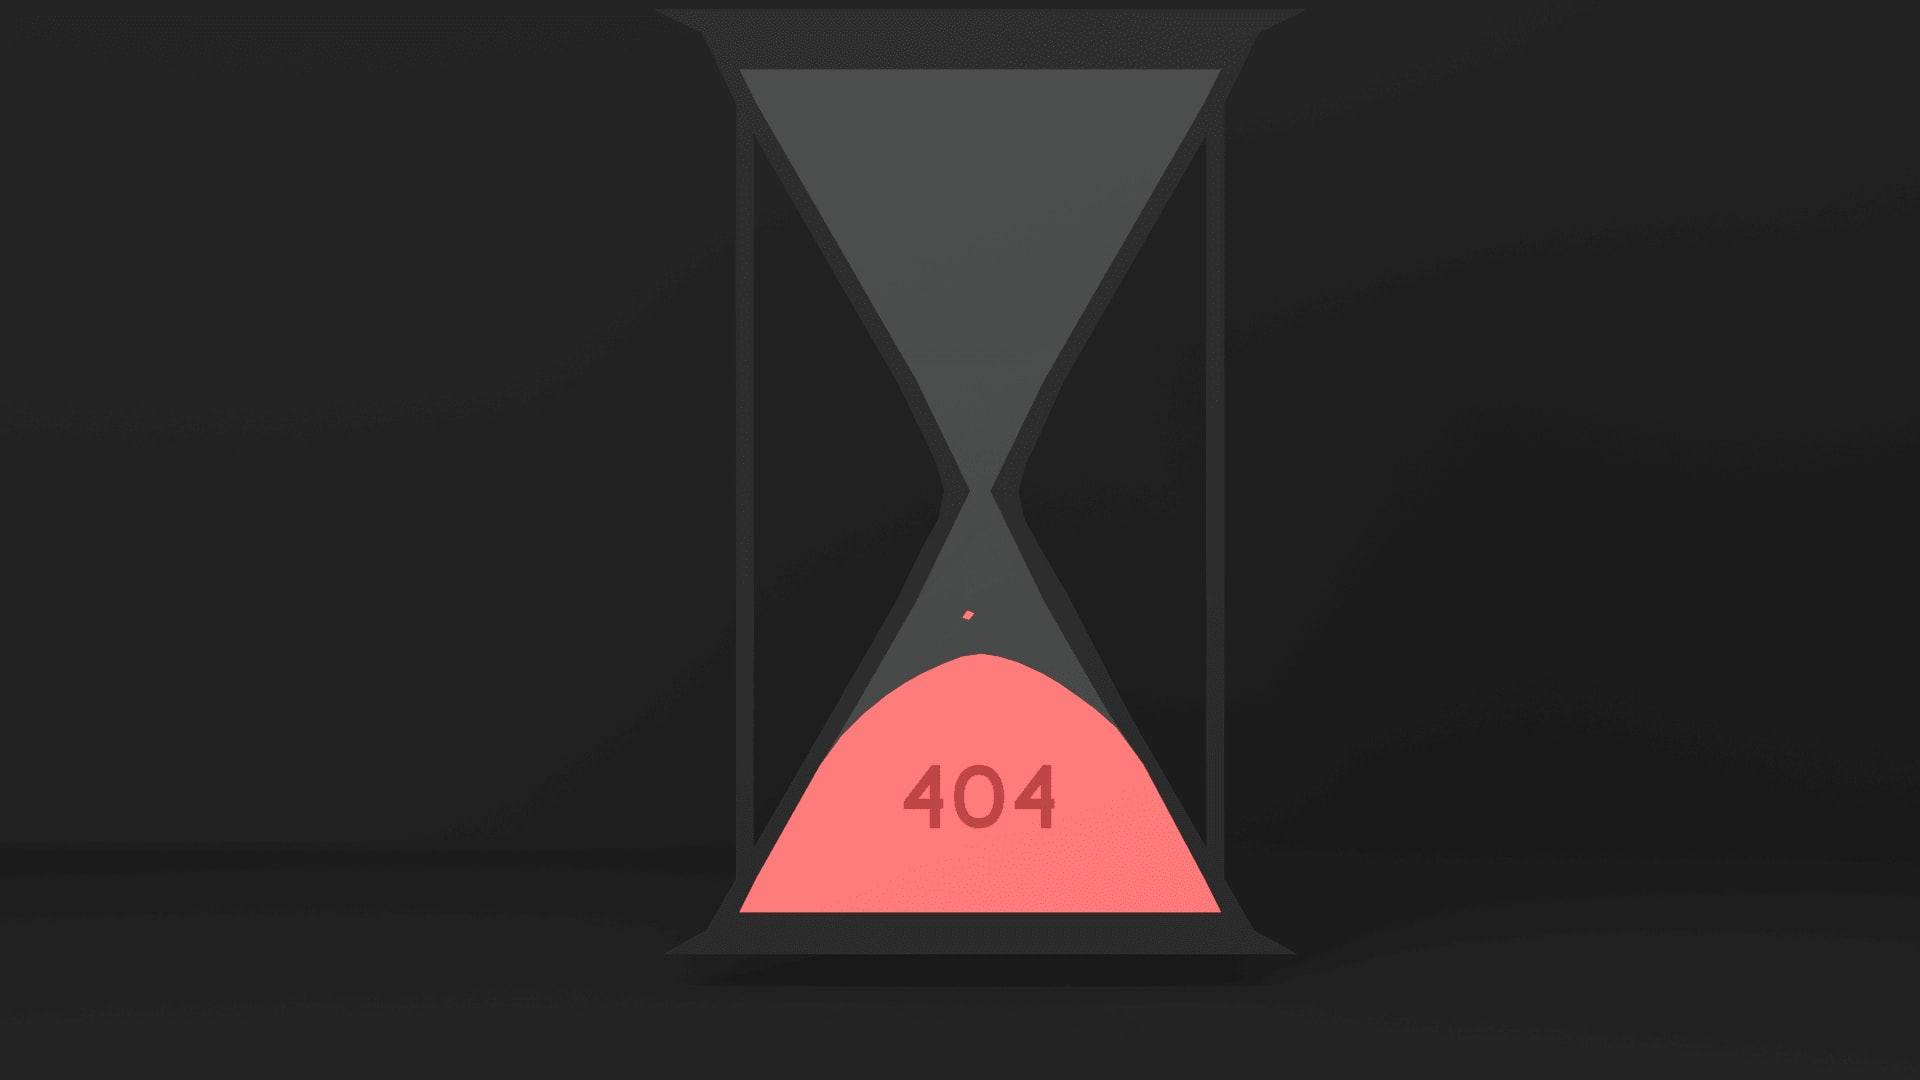
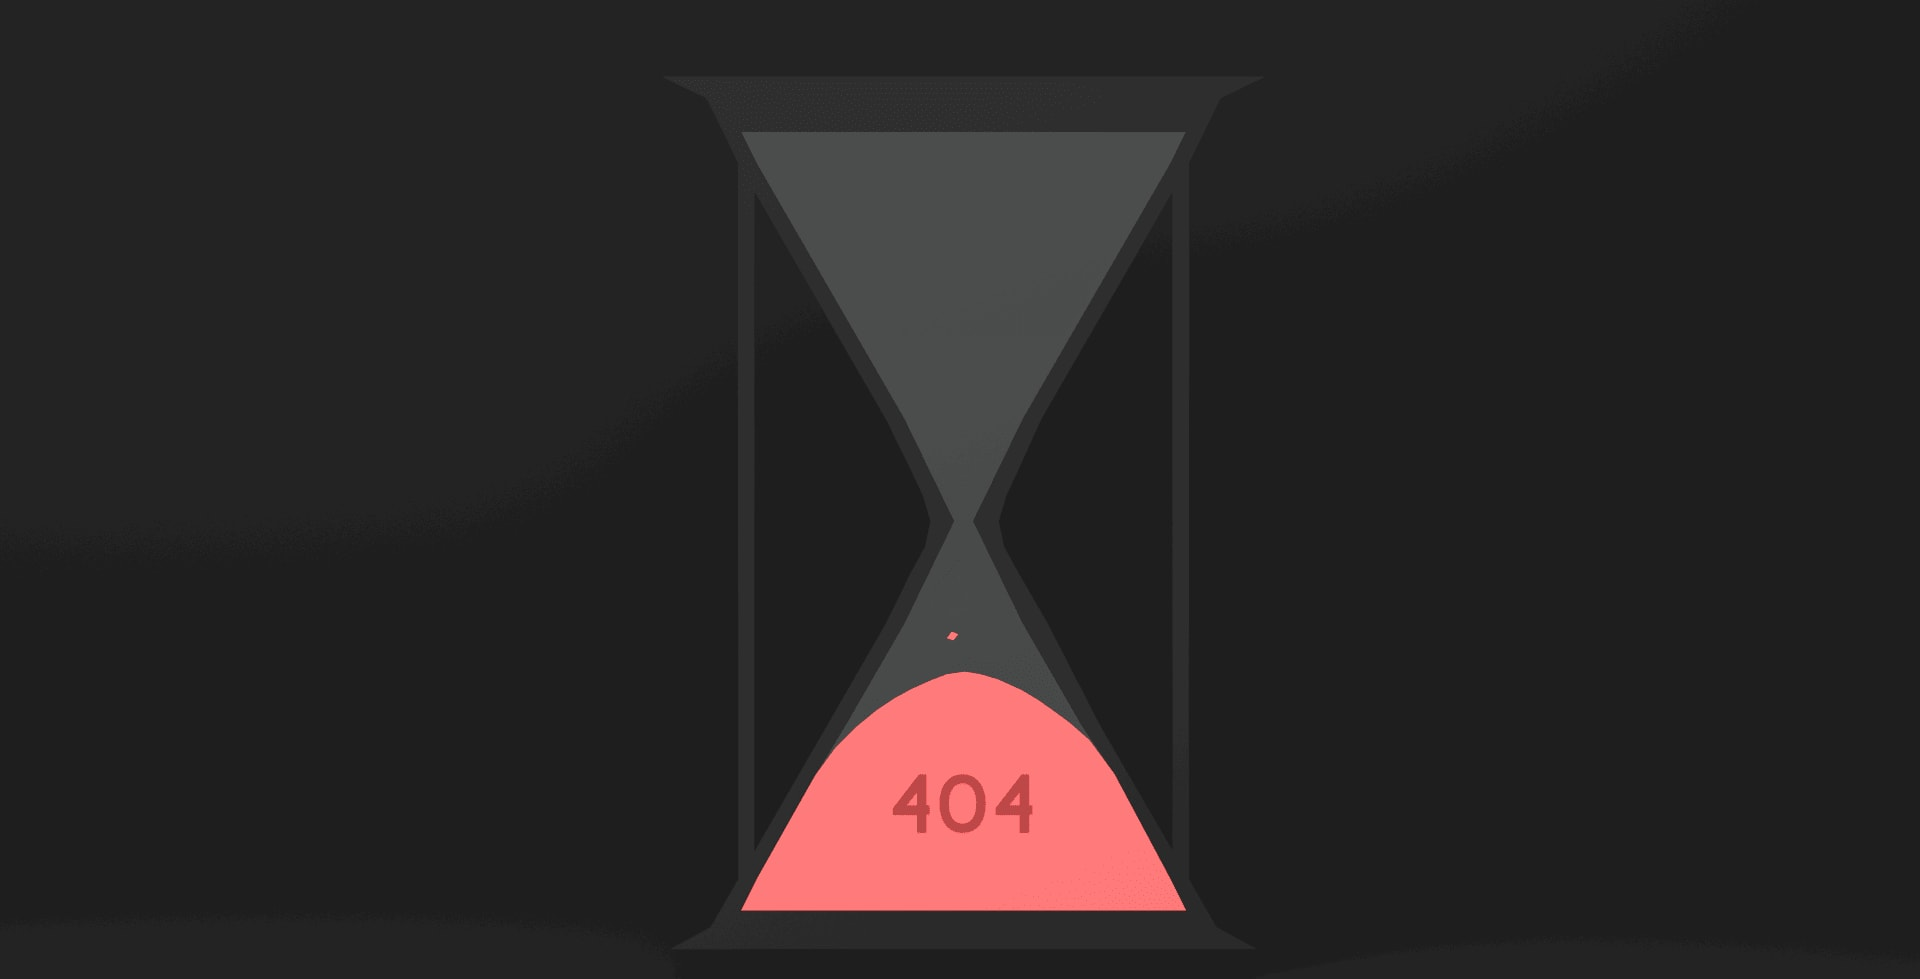
More page display fixes

Changed region(s): [[0.375, 0.0613, 0.6562, 0.9499], [0.5625, 0.2145, 0.5938, 0.3064]]

diff --git a/client/main/main.js b/client/main/main.js
@@ -36,10 +36,11 @@ Session.set("inputOpen",null);
 
 Cookie.set("theme","light",{'years':15});
 
+Template.registerHelper( 'divColor', (div) => {
+	return themeColors[Cookie.get("theme")][div];	
+})
+
 Template.main.helpers({
-	divColor(div) {
-		return themeColors[Cookie.get("theme")][div];	
-	},
 	iconColor(icon) {
 		let status = Session.get(icon+"Open");
 		if(status) {
@@ -190,11 +191,25 @@ Template.main.events({
 		Session.set("inputOpen", event.target.getAttribute("op"));
 		openDivFade(event.target.parentNode.childNodes[4]);
 	},
+	'focus .creInputSel' (event) {
+		Session.set("inputOpen", event.target.getAttribute("op"));
+		openDivFade(event.target.parentNode.childNodes[4]);
+	},
 	'click .creOptions p' (event) {
 		var p = event.target;
 		p.parentNode.parentNode.childNodes[1].value = p.childNodes[0].nodeValue;
 		closeDivFade(p.parentNode);
+		p.parentNode.parentNode.childNodes[1].focus();
 		Session.set("inputOpen",null)
+	},
+	'click' (event) {
+		console.log(event.target.className);
+		var e = event.target.className;
+		if(!(e.includes("creInput") || e.includes("select"))) {
+			try {
+				closeDivFade(document.getElementsByClassName("creInputSel")[Session.get("inputOpen")].parentNode.childNodes[4]);
+			} catch(err) {}
+		}
 	}
 });
 

diff --git a/client/404/404.js b/client/404/404.js
@@ -5,14 +5,21 @@ Template.NotFound.helpers({
 		return window.innerWidth.toString() + "px";
 	},
 	circle() {
-		return .25*window.innerWidth.toString() + "px";
+		return .2*window.innerWidth.toString() + "px";
 	},
 	center() {
-		return -.125*window.innerWidth.toString() + "px";
+		return -.1*window.innerWidth.toString() + "px";
 	},
 	hea() {
-		var h = .08*window.innerHeight;
+		var h = .06*window.innerHeight;
 		return "font-size:"+h.toString()+"px;margin-top:"+-.5*h.toString()+"px;";
+	},
+	dim() {
+		return window.innerWidth.toString()+"px";
+	},
+	text() {
+		var h = .4*window.innerHeight;
+		return "width:"+h.toString()+"px;margin-left:"+-.5*h.toString()+"px;";
 	}
 })
 

diff --git a/client/404/404.html b/client/404/404.html
@@ -1,5 +1,6 @@
 <template name="NotFound">
-	<div id="fourohfour">
+	<div id="fourohfour" style="background-size:{{dim}}">
+		<h4 id="fourtext" style="{{text}}">Stop trying to hack.</h4>
 		<div id="back" style="width:{{circle}};height:{{circle}};margin-top:{{center}};"><h3 style="{{hea}}">Back</h3></div>
 		<div id="main" style="width:{{circle}};height:{{circle}};margin-top:{{center}};"><h3 style="{{hea}}">Main page</h3></div>
 	</div>

diff --git a/client/404/404.css b/client/404/404.css
@@ -57,3 +57,20 @@
 	top: 50%;
 	right: 5%;
 }
+
+#fourtext {
+	font-size: 200%;
+	padding: 1%;
+
+	color: #FFF;
+	background-color: rgba(255,255,255,0.5);
+
+	-moz-border-radius: 10px;
+	-webkit-border-radius: 10px;
+	border-radius: 10px;
+
+	text-align: center;
+	position: relative;
+	top: 15%;
+	left: 50%;
+}

diff --git a/client/main/main.html b/client/main/main.html
@@ -85,6 +85,8 @@
   </div>
   <div id="optionsContainer" style="margin-right:{{optionsStatus}};background-color:{{divColor 'sidebar'}}">
   </div>
+  <div id="mainBody">
+  </div>
   <div class="overlay">
     <div class="overlayCont" style="{{overlayDim}};">
       <p>Are you sure?</p>

diff --git a/client/login/login.html b/client/login/login.html
@@ -13,7 +13,6 @@
 				<p class="text">All your work in one place. Finish before your time runs out.</p>
 				<h3 class="text" id="loginButton" style="{{hea}}">Sign in</h3>
 			</div>
-			
 		</div>
 	</div>
 	<footer id="loginFooter">

diff --git a/client/main/main.css b/client/main/main.css
@@ -368,3 +368,10 @@ select {
 	-ms-transition: background-color 0.2s ease;
 	transition: background-color 0.2s ease; 
 }
+
+#mainBody {
+	width: 100%;
+	height: 100%;
+	position: absolute;
+	z-index: -1;
+}
